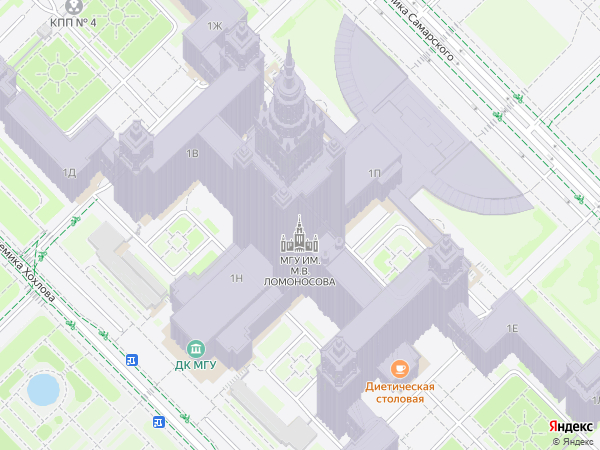
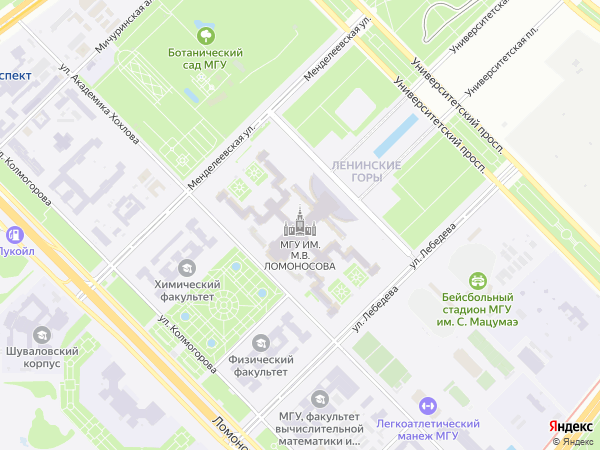
вторая версия

diff --git a/application.py b/application.py
@@ -7,34 +7,52 @@ from data_getter import DataGetter
 
 lon = "37.530887"
 lat = "55.703118"
-delta = "0.002"
-
+delta = 0.002
+step = 0.001
 
 class Map(QWidget):
-    def __init__(self, content):
+    def __init__(self):
         super().__init__()
-        self.image = content
+        self.data_getter = DataGetter()
+        self.current_delta = delta
         self.initUI()
 
     def initUI(self):
         self.layout = QVBoxLayout()
-        if self.image is not None:
-            temporary_file_name = "temporary_image_file.jpg"
-            with open(temporary_file_name, "wb") as image_file:
-                image_file.write(self.image)
-            pixmap = QPixmap(temporary_file_name)
-            pixmap = pixmap.scaled(640, 360, aspectRatioMode=Qt.KeepAspectRatio)
-            image_label = QLabel(alignment=Qt.AlignmentFlag.AlignHCenter)
-            image_label.setPixmap(pixmap)
-            self.layout.addWidget(image_label)
+        self.map_widget = self.setup_map_widget(lon, lat, self.current_delta)
+        self.layout.addWidget(self.map_widget)
         self.setLayout(self.layout)
 
+    def setup_map_widget(self, lon, lat, delta):
+        image = self.data_getter.get_map_image(lon, lat, str(delta))
+        temporary_file_name = "temporary_image_file.jpg"
+        with open(temporary_file_name, "wb") as image_file:
+            image_file.write(image)
+        pixmap = QPixmap(temporary_file_name)
+        pixmap = pixmap.scaled(640, 360, aspectRatioMode=Qt.KeepAspectRatio)
+        image_label = QLabel(alignment=Qt.AlignmentFlag.AlignHCenter)
+        image_label.setPixmap(pixmap)
+        return image_label
 
-data_getter = DataGetter()
+    def keyPressEvent(self, event):
+        key = event.key()
+        if key == Qt.Key_Up:
+            self.current_delta += step
+            if self.current_delta > 1:
+                self.current_delta = 1
+        elif key == Qt.Key_Down:
+            self.current_delta -= step
+            if self.current_delta < 0:
+                self.current_delta = 0
+
+        self.layout.removeWidget(self.map_widget)
+        self.map_widget = self.setup_map_widget(lon, lat, self.current_delta)
+        self.layout.addWidget(self.map_widget)
+
 
 if __name__ == '__main__':
     app = QApplication(sys.argv)
-    window = Map(data_getter.get_map_image(lon, lat, delta))
+    window = Map()
     window.show()
     sys.exit(app.exec())
 
